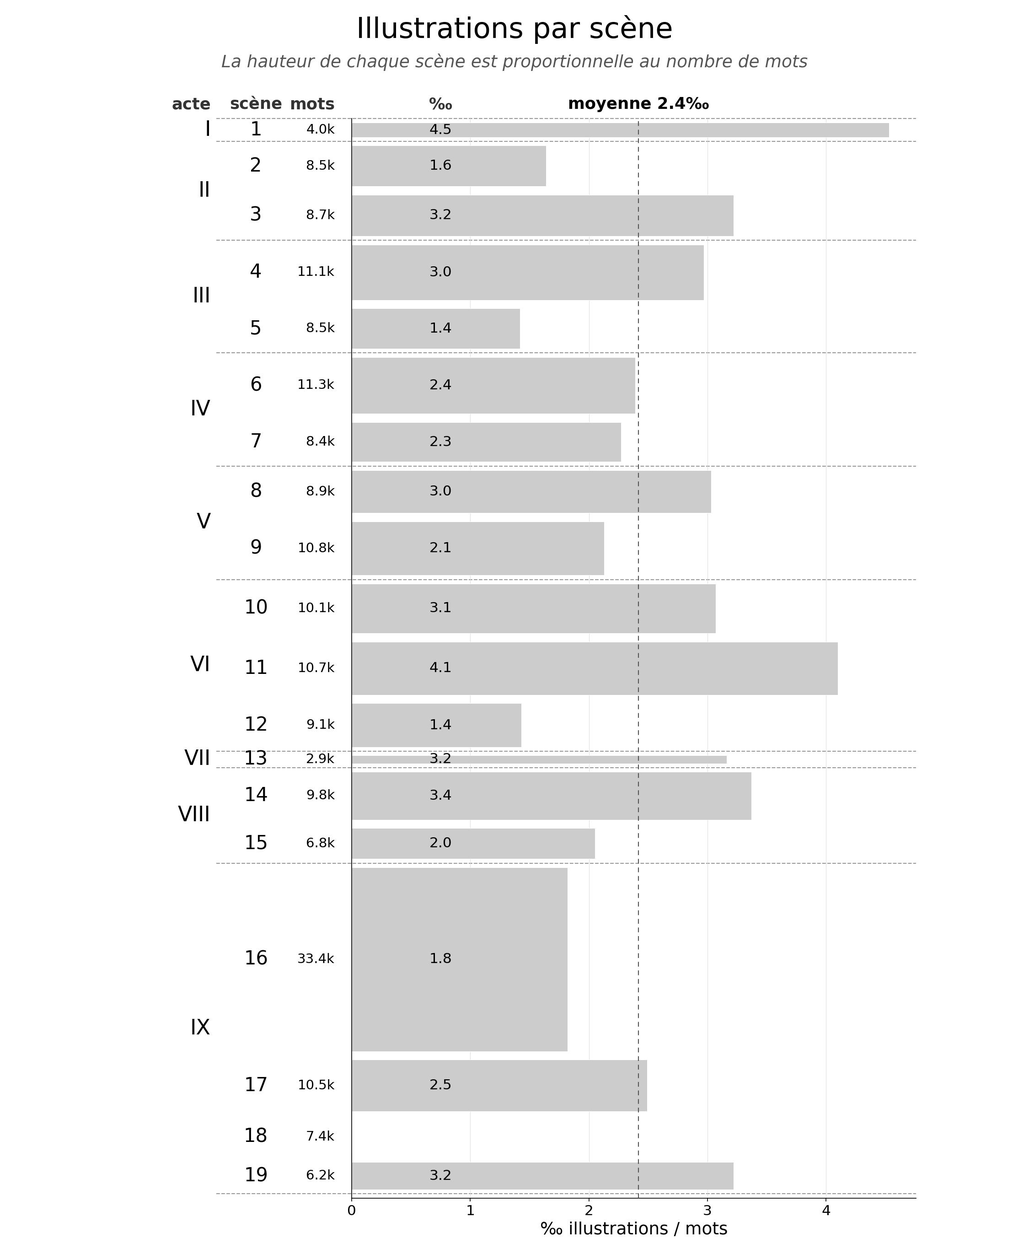
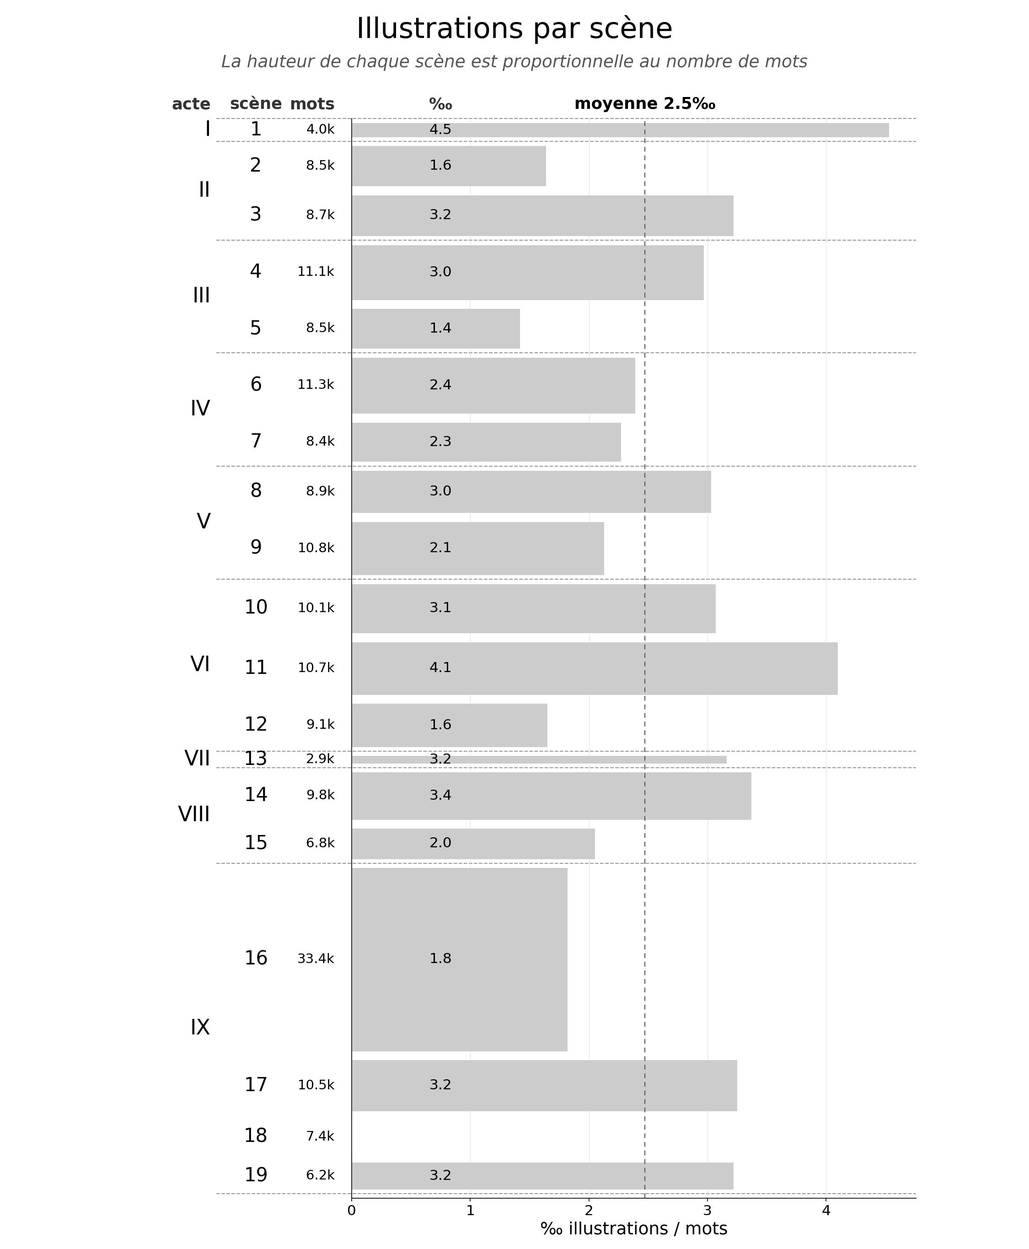
moyenne = 2.5‰ !

Changed region(s): [[0.6222, 0.8407, 0.7156, 0.9029], [0.56, 0.0623, 0.6844, 0.0934], [0.4978, 0.5604, 0.5289, 0.6227]]

diff --git a/actes/acte_09_3.tex b/actes/acte_09_3.tex
@@ -149,6 +149,7 @@ C’était compter sans la perspicacité de Shirani, limier diabolique capable d
 
 J’ai brandi ma plaque et hurlé à la cantonade : \shouting{Police !!! Circulez, y a rien à voir !!!}
 
+\iconographietex{figures/honni-soit-qui-mal-y-pense_fig.tex}
 \label{rat:49}%
 On le sait, les gens adorent les trucs scabreux. Ils vous diront que non, mais le fait est que s’il se passe quelque chose d’horrible quelque part, ils ont toutes les peines du monde à ne pas se précipiter pour jeter un œil. Ils sont comme ces charognards qui reniflent l’odeur de la viande froide et rappliquent ventre à terre pour prendre part au festin. Avant, ils se contentaient de regarder, maintenant ils filment, ce qui leur permet d’une part de revoir la scène encore et encore, d’autre part d’en faire profiter celles et ceux qui n’auraient pas eu la chance d’y assister. Avant, ils n’avaient que leur parole à opposer aux sceptiques et aux jaloux, maintenant ils ont les images pour preuve de leur bonne foi. Ces images, d’ailleurs, peuvent leur assurer une petite rente s’ils sont les seuls à les posséder. Les chaînes d’info en continu se feront une joie de les récupérer pour les diffuser en boucle auprès du grand public. Naturellement, plus c’est ignoble et horrifique, et plus le rapport est important. Tout est fait, en ce bas monde, pour flatter les plus bas instincts de la communauté. C’est ainsi que les réseaux sociaux, ramassis de crétins décérébrés et de sociopathes à la petite semaine, peuvent se développer à la vitesse d’une portée de cafards dans un placard rempli de victuailles. Les vautours parlent aux vautours, partagent l’info en temps réel, vingt-quatre heures sur vingt-quatre. Les hyènes ricanent, les requins de la finance entrent dans la danse et se remplissent la panse. Honni soit qui mal y pense, et longue vie en passant à la reine Victoria\nf{Reine Victoria (Victoria Alexandrina, 1819--1901), reine du Royaume-Uni de Grande-Bretagne et d’Irlande de 1837 à sa mort, et impératrice des Indes à partir de 1876. Son règne de 63~ans, le plus long de l’histoire britannique avant Élisabeth~II, correspond à l’apogée de l’Empire britannique et donna son nom à l’ère victorienne. \source{fr.wikipedia.org/wiki/Victoria\_(reine)}}, au prince de Galles\nf{Titre de l’héritier présomptif de la Couronne britannique, porté depuis 1958 par le prince William (né le 21~juin 1982), fils aîné du roi Charles~III. Le titre est décerné par le monarque régnant et n’est pas transmis automatiquement. \source{fr.wikipedia.org/wiki/Prince\_de\_Galles}}, à Ed Wood\nf{Edward Frederick Lindley Wood (1881--1959), 1\textsuperscript{er} comte d’Halifax, homme d’État britannique conservateur. Vice-roi des Indes (1925--1931), secrétaire d’État aux Affaires étrangères (1938--1940), partisan de la politique d’apaisement envers l’Allemagne nazie~; il rencontra Hitler en 1937. Candidat au poste de Premier ministre en 1940, supplanté par Winston Churchill. Son prénom et son patronyme coïncident avec ceux du réalisateur américain Ed Wood (1924--1978), évoqué ci-après. \source{fr.wikipedia.org/wiki/Edward\_Frederick\_Lindley\_Wood}} (le comte d’Halifax, pas l’auteur de \textit{La Fiancée du monstre}\nf{\textit{La Fiancée du monstre} (\textit{Bride of the Monster}, 1955), film d’horreur d’Edward D.~Wood Jr. (1924--1978), réalisateur américain dont l’œuvre, marquée par des budgets dérisoires, des scénarios improbables et une mise en scène hallucinée, lui a valu une réputation culte posthume. Bela Lugosi y incarne un savant fou cherchant à créer une race de mutants atomiques. \source{fr.wikipedia.org/wiki/La\_Fiancée\_du\_monstre}} et \textit{Necromania}\nf{\textit{Necromania} (1971), film érotique d’Ed Wood, l’un de ses derniers tournages. Un couple consulte une nécromancienne pour ranimer sa vie sexuelle. Redécouvert après des décennies d’oubli grâce à la vague de réhabilitation qui suivit les \textit{Golden Turkey Awards}. \source{fr.wikipedia.org/wiki/Necromania}}, qualifié par les frères Medved\nf{Harry Medved et Michael Medved, frères et critiques américains, auteurs de \textit{The Golden Turkey Awards} (1980), dans lequel ils décernent à Ed Wood le titre de «~pire réalisateur de tous les temps~» et à \textit{Plan 9 from Outer Space} celui de «~pire film de tous les temps~». Ces distinctions ont paradoxalement contribué à la réhabilitation culte d’Ed Wood. \source{fr.wikipedia.org/wiki/Michael\_Medved}} de «~plus mauvais réalisateur de tous les temps~», ce qui est plutôt un compliment venant de réacs dans leur genre), au gentilhomme huissier de (pas à) la verge noire\nf{Le gentilhomme huissier de la verge noire (\textit{Gentleman Usher of the Black Rod}), officier chargé du protocole à la Chambre des lords du Parlement britannique, dont l’attribut est un bâton d’ébène noir. Sa mission la plus connue~: frapper à la porte de la Chambre des communes, symboliquement fermée devant lui, pour convoquer les députés au discours du Trône — rappel de l’indépendance du Parlement vis-à-vis du souverain. \source{fr.wikipedia.org/wiki/Black\_Rod}}, au duc de Kent\nf{Titre de pairie britannique dont le détenteur actuel est le prince Edward, duc de Kent (né le 9~octobre 1935), fils du prince George, duc de Kent, et cousin germain d’Élisabeth~II. Il hérite du titre à six ans, à la mort de son père dans un accident d’avion en 1942. Grand maître de la Grande Loge unie d’Angleterre depuis 1967. \source{fr.wikipedia.org/wiki/Duc\_de\_Kent}} et à Naruhito\nf{Naruhito (né le 23~février 1960 à Tokyo), 126\textsuperscript{e} empereur du Japon depuis le 1\textsuperscript{er}~mai 2019, date de l’abdication de son père Akihito. Son règne inaugure l’ère Reiwa («~belle harmonie~»). Musicien amateur (alto) et alpiniste, il a étudié l’histoire des voies navigables intérieures à l’université d’Oxford. \source{fr.wikipedia.org/wiki/Naruhito}}, empereur du Japon, à sa gracieuse épouse Masako Owada\nf{Masako Owada (née le 9~décembre 1963 à Tokyo), impératrice du Japon depuis le 1\textsuperscript{er}~mai 2019. Ancienne diplomate de carrière, diplômée d’Harvard en économie (1985), parlant couramment l’anglais, le français et l’allemand. Son mariage avec le prince héritier Naruhito, le 9~juin 1993, mit fin à une brillante carrière au ministère des Affaires étrangères. \source{fr.wikipedia.org/wiki/Masako\_Owada}}, et bien sûr à leur fille Aiko\nf{Aiko (née le 1\textsuperscript{er}~décembre 2001 à Tokyo), princesse de Toshi, unique enfant de l’empereur Naruhito et de l’impératrice Masako. Diplômée en littérature japonaise de l’université Gakushuin (2024), elle travaille au sein de la Croix-Rouge japonaise. Exclue de la succession au trône par la loi de 1947 réservée aux descendants mâles. \source{fr.wikipedia.org/wiki/Aiko\_de\_Toshi}}, princesse de Toshi et Grand-cordon de l’ordre de la Couronne précieuse\nf{L’ordre de la Couronne précieuse (\cjk{宝冠章}, \textit{Hōkan-shō}), ordre honorifique japonais institué le 4~janvier 1888 par l’empereur Meiji. Traditionnellement réservé aux femmes, notamment aux membres de la famille impériale et aux épouses de dignitaires étrangers. Il comporte huit classes, le Grand-cordon étant la plus haute distinction. \source{fr.wikipedia.org/wiki/Ordre\_de\_la\_Couronne\_précieuse}}, au même titre que la reine d’Espagne\nf{Letizia Ortiz Rocasolano (née le 15~septembre 1972 à Oviedo), reine d’Espagne depuis le 19~juin 2014, épouse du roi Felipe~VI. Ancienne journaliste et présentatrice de télévision (TVE, CNN+), elle épouse le prince Felipe le 22~mai 2004. Première reine d’Espagne d’origine roturière. \source{fr.wikipedia.org/wiki/Letizia\_Ortiz}} et la princesse Basma de Jordanie\nf{La princesse Basma bint Talal (née le 12~juin 1951), fille du roi Talal de Jordanie et sœur du roi Hussein. Militante des droits humains et fondatrice de plusieurs organisations humanitaires, l’une des figures les plus progressistes de la famille royale hachémite. Arrêtée en 2019, elle est maintenue en détention pendant près de deux ans avant d’être libérée en 2021. \source{en.wikipedia.org/wiki/Princess\_Basma\_bint\_Talal}}, également (pour celles et ceux que ça intéressent, même si je me doute bien qu’ils ne sont pas légion) Grand-Croix de l’ordre royal de l’Étoile polaire de Suède\nf{L’ordre royal de l’Étoile polaire (\textit{Kungliga Nordstjärneorden}), ordre honorifique suédois fondé en 1748 par le roi Frédéric~I\textsuperscript{er}. Destiné aux ministres, ambassadeurs, savants et artistes. Son insigne est une croix blanche à huit pointes portant l’étoile polaire et la devise \textit{Nescit occasum} («~qui ne décline jamais~»). \source{fr.wikipedia.org/wiki/Ordre\_royal\_de\_l'Étoile\_polaire}}. Les gens que je viens de citer, citoyens haut-placés de l’univers, quasi-divinités vénérées par des peuples tout entiers (lesquels, il faut bien le reconnaître, ne barbotent pas toujours dans l’opulence et ont par conséquent d’autant plus de mérite à admirer des gens qui se goinfrent sur leur dos), bénéficient d’une protection toute particulière pour garantir leur intimité. Mais vous, qui n’avez pas de particule et encore moins de sang royal qui circule dans vos veines, sachez que quel que soit l’endroit où vous vous trouviez (j’allais dire cachiez, sans doute ce que vous auriez de mieux à faire), il y aura toujours quelqu’un pour vous filmer à votre insu. Non pas que votre vie présente un quelconque intérêt, mais le voyeurisme est aujourd’hui parvenu à un tel degré d’omniprésence qu’il est devenu impossible de s’y soustraire. Fini le bon temps où on pouvait agresser une petite vieille en toute sécurité, tabasser un étranger ou harceler sexuellement sa secrétaire sans que la moitié de la planète soit au courant dans les secondes qui suivent. Aujourd’hui, outre les caméras de surveillance qui fleurissent à tous les coins de rues, il faut compter sur les particuliers qui vivent en permanence l’œil rivé à l’écran de leur smartphone. L’être humain a toujours été sujet au voyeurisme, c’est vrai, mais ce qui était jadis honteux peut aujourd’hui s’afficher au grand jour en toute légalité. De la même façon, l’exhibitionnisme n’est plus réservé à une certaine catégorie de personnel, comme les politiciens, les artistes ou les gens qui se baladent à poil sous des imperméables même quand il ne pleut pas, de préférence à la sortie des écoles. Non, vous pouvez maintenant être une parfaite nullité totalement dépourvue de charisme et réussir à capter l’attention de millions de followers encore plus nuls que vous. On dit follower parce que suiveur ou suiveuse c’est pas terrible, sinon franchement péjoratif, au même titre que disciple, qui fait un peu gourou d’une secte de demeurés, ou encore abonné, qui fait référence à la téléphonie des années 70 et cadre assez mal avec l’idée de modernité véhiculée par les nouvelles technologies.
 

diff --git a/actes/acte_06_2.tex b/actes/acte_06_2.tex
@@ -201,7 +201,7 @@ Il a entrouvert la bouche dans l’intention manifeste de s’exprimer sur le su
 
 \end{dialogue}
 
-Il s’est rétracté dans le fond de sa coquille comme un es\-car\-got ébouillanté.
+\noindent Il s’est rétracté dans le fond de sa coquille comme un es\-car\-got ébouillanté.
 
 \begin{dialogue}
 
@@ -970,6 +970,9 @@ J’ai dit : Je comprends que vous soyez dépitée. Mais je vous en prie, revene
 %
 \textsc{Moi} : Je le sais, et vous présente une fois de plus, en mon nom et ceux de mes camarades ici présents, mes plus sincères condoléances. Mais j’aimerais maintenant, si vous le permettez, revenir à l’idée que je souhaitais soumettre à l’assistance. Comme vous n’êtes pas sans le savoir, les principaux suspects dans cette sombre affaire sont les sieurs Jégou, Monteil et Desmarais, tristes sires s’il en est, qui forment le noyau dur d’un groupuscule d’extrême-droite connu sous le nom de Disciples de la Colère. Je dirais plutôt Disciples de la Connerie. Quand ils ne sont pas en train de se saouler la gueule au Bouclier, un bar facho de la rue de Gobineau\nf{Arthur de Gobineau (1816--1882), diplomate et écrivain français, auteur de l'\textit{Essai sur l'inégalité des races humaines} (1853--1855), texte fondateur du racisme scientifique et de l'idéologie aryenne, abondamment récupéré par les mouvements d'extrême-droite.\source{fr.wikipedia.org/wiki/Arthur\_de\_Gobineau}}, ils se retrouvent rue Jordan Peshkov, chez Jégou qui fait office de cerveau de la bande, ou plutôt chez sa grand-mère puisque c’est là qu’il habite, dans le sous-sol transformé en bunker nazi, pour préparer la troisième guerre mondiale et le retour triomphal du führer qui attendait patiemment son heure dans un caisson de cryogénisation. En attendant ce jour de gloire, ils bricolent des complots racistes, antisémites et homophobes pour déstabiliser la société et saper les fondements de la démocratie. La vieille, sourde comme un pot et toute acquise aux thèses négationnistes de son petit-fils adoré, qu’elle a élevé depuis sa plus tendre enfance, ses parents s’étant barrés en vitesse dès qu’ils ont compris qu’ils avaient engendré un monstre, leur mitonne des petits plats pour qu’ils ne crèvent pas de faim pendant les longues soirées d’hiver passées à refaire le monde, ou plutôt imaginer le plus sûr moyen de le réduire en cendres. Pour en revenir à l’affaire qui nous occupe, Cerqueira, qui était présent au moment des faits, affirme avoir tout tenté pour empêcher Desmarais de commettre le pire. Mais autant essayer de retirer un os de la gueule d’un dogue allemand ! Plombier de métier, cette sous-merde est aussi pompier volontaire. Pas pour sauver des gens, je vous rassure tout de suite, mais pour assouvir sa fascination pour le feu. Voir cramer des choses le met en joie, lui déclenche des érections d’anthologie, lui procure des orgasmes apocalyptiques, choses d’autant plus rares, exceptionnelles et profitables qu’il souffre d’impuissance chronique. C’est au contact des flammes qu’il s’épanouit, et sa grande passion consiste à faire semblant d’éteindre des incendies qu’il a lui-même allumés. Si on en croit Cerqueira, et je suis assez enclin à le faire, c’est Desmarais qui a carbonisé Alvarez au lance-flammes. Ils ont tous, de près ou de loin, participé à cette abomination, mais c’est à Desmarais que revient la palme du pire taré de service. Je vais donc m’en occuper personnellement, à mon rythme, et corriger le tir de dame Nature qui s’est une fois de plus fourvoyée sur la longue route semée d’embûches de l’évolution. Je propose que Sam s’occupe de Jégou et Greg et Nathan de Monteil.
 
+\illusloflabel{}%
+\iconographieinlineblock[]{\bwimage[width=\textwidth]{acte_06/scene_12/_0000_martin-cougar.jpg}}{Martin Archery MT-6 Cougar }
+
 \textsc{Nathan} : Je vais me le faire au Cougar MT-6, avec des pointes de flèches explosives.
 
 \textsc{Greg} : Je ramasserai les morceaux.
@@ -990,9 +993,6 @@ J’ai dit : Je comprends que vous soyez dépitée. Mais je vous en prie, revene
 
 \textsc{Moi} : C’est comme ça que je vois les choses. En attendant, s’il n’est pas rentré à la maison à la première heure, Bérénice va me tomber dessus et je vais avoir toutes les peines du monde à lui expliquer ce qui s’est réellement passé.
 
-\illusloflabel{}%
-\iconographiewrapfig{l}{0.15\textwidth}{\bwimage[width=\linewidth]{acte_03/scene_4/_0601_martin-cougar.jpg}}{Martin Archery MT-6 Cougar }%
-%
 \textsc{Greg} : Tu sais ce qui s’est réellement passé ?
 
 \textsc{Moi} : Pas vraiment, non.
@@ -1001,10 +1001,12 @@ J’ai dit : Je comprends que vous soyez dépitée. Mais je vous en prie, revene
 
 \textsc{Moi} : Où ça ?
 
-
 \textsc{Nathan} : La fille a parlé d’un hôtel tout près d’ici.
 
-En tant qu’homme moderne parfaitement connecté au monde réel et toujours au fait des dernières avancées en matière de technologies de pointe, Greg a aussitôt sorti son smartphone, appareil sur lequel il disposait de toutes les applis nécessaires pour quadriller le périmètre au dixième de millimètre près : Attends, je regarde s’il y en a un dans le coin.
+\illusloflabel{}%
+\iconographiewrapfig{r}{0.17\textwidth}{\bwimage[width=\linewidth]{acte_06/scene_12/_0000_gurkha-ghost-spook.jpg}}{Gurkha Ghost Spook}%
+%
+En tant qu’homme moderne parfaitement connecté au monde réel et toujours au fait des dernières avancées en matière de technologies de pointe, \textsc{Greg} a aussitôt sorti son smartphone, appareil sur lequel il disposait de toutes les applis nécessaires pour quadriller le périmètre au dixième de millimètre près : Attends, je regarde s’il y en a un dans le coin.
 
 \textsc{Moi}, estimant que le moment d’allumer un Gurkha Ghost Spook était amplement arrivé : Alors ?
 
@@ -1045,3 +1047,7 @@ En tant qu’homme moderne parfaitement connecté au monde réel et toujours au 
 \textsc{Moi}, après un temps d’hésitation : Okay, on y va !
 
 \end{dialogue}
+
+\illusloflabel{Hamdullah!}%
+\iconographieinlineblock[b]{\bwimage[width=0.55\textwidth]{acte_06/scene_12/_0190_hamdullah.jpg}}{}%
+

diff --git a/figures/honni-soit-qui-mal-y-pense_fig.tex b/figures/honni-soit-qui-mal-y-pense_fig.tex
@@ -1,0 +1,72 @@
+% honni-soit-qui-mal-y-pense_fig.tex — 3+3+2
+% AR: Victoria 0.707 · William 0.671 · Kent 1.000
+%     Naruhito 0.700 · Aiko 0.719 · Masako 0.696 — Σ=2.115
+%     Letizia 0.743 · Basma 0.758 — Σ=1.501
+% Rows 2+3 : widths ∝ AR (gap total ≈ 0.035\textwidth) → equal height per row
+\vspace*{\fill}
+
+% --- row 1 : Victoria · Prince de Galles · Duc de Kent (hauteurs libres) ---
+\noindent
+\begin{minipage}[t]{0.31\textwidth}
+  \centering
+  \illusloflabel{Reine Victoria}%
+  \bwimage[width=\linewidth]{acte_09/scene_17/honni/_0010_victoria.jpg}\\[-0.4em]
+  {\figcaptionname\itshape Reine Victoria \textup{1819--1901}}
+\end{minipage}
+\hfill
+\begin{minipage}[t]{0.31\textwidth}
+  \centering
+  \illusloflabel{Prince de Galles}%
+  \bwimage[width=\linewidth]{acte_09/scene_17/honni/_0020_prince-de-galles.jpg}\\[-0.4em]
+  {\figcaptionname\itshape Prince de Galles \textup{1982--}}
+\end{minipage}
+\hfill
+\begin{minipage}[t]{0.31\textwidth}
+  \centering
+  \illusloflabel{Duc de Kent}%
+  \bwimage[width=\linewidth]{acte_09/scene_17/honni/_0070_duc-de-kent.jpg}\\[-0.4em]
+  {\figcaptionname\itshape Duc de Kent \textup{1935--}}
+\end{minipage}
+
+\vfill
+
+\noindent
+\begin{minipage}[t]{0.319\textwidth}
+  \centering
+  \illusloflabel{Naruhito}%
+  \bwimage[width=\linewidth]{acte_09/scene_17/honni/_0080_naruhito.jpg}\\[-0.4em]
+  {\figcaptionname\itshape Naruhito \textup{1960--}}
+\end{minipage}
+\hfill
+\begin{minipage}[t]{0.328\textwidth}
+  \centering
+  \illusloflabel{Aiko, princesse de Toshi}%
+  \bwimage[width=\linewidth]{acte_09/scene_17/honni/_0100_aiko.jpg}\\[-0.4em]
+  {\figcaptionname\itshape Aiko \textup{2001--}}
+\end{minipage}
+\hfill
+\begin{minipage}[t]{0.318\textwidth}
+  \centering
+  \illusloflabel{Masako Owada}%
+  \bwimage[width=\linewidth]{acte_09/scene_17/honni/_0090_masako-owada.jpg}\\[-0.4em]
+  {\figcaptionname\itshape Masako Owada \textup{1963--}}
+\end{minipage}
+
+\vfill
+
+\noindent
+\begin{minipage}[t]{0.34\textwidth}
+  \centering
+  \illusloflabel{Reine d'Espagne}%
+  \bwimage[width=\linewidth]{acte_09/scene_17/honni/_0110_letizia.jpg}\\[-0.4em]
+  {\figcaptionname\itshape Letizia Ortiz \textup{1972--}}
+\end{minipage}
+\hfill
+\begin{minipage}[t]{0.35\textwidth}
+  \centering
+  \illusloflabel{Princesse Basma de Jordanie}%
+  \bwimage[width=\linewidth]{acte_09/scene_17/honni/_0120_princesse-basma.jpg}\\[-0.4em]
+  {\figcaptionname\itshape Princesse Basma \textup{1951--}}
+\end{minipage}
+
+\vspace*{\fill}

diff --git a/stats.py b/stats.py
@@ -15,7 +15,7 @@ ACTES_DIR = ROOT / "actes"
 BUILD     = ROOT / "build"
 OUT_FILE  = ROOT / "stats.md"
 
-ILLUS_TARGET = 414  # target: 1 illustration every N words (overridable via --target)
+ILLUS_TARGET = 405  # target: 1 illustration every N words (overridable via --target)
 
 TOC_MAIN   = BUILD / "tete_de_veau_ravigote.toc"
 TOC_TOTALE = BUILD / "tete_de_veau_ravigote_LA_TOTALE.toc"

diff --git a/extrait.tex b/extrait.tex
@@ -17,8 +17,12 @@
 \pagestyle{gallimard}
 
 \acte{
-  \input{actes/acte_06_1.tex}
-  \input{actes/acte_06_2.tex}
+  \input{actes/acte_09_1.tex}
+  \input{actes/acte_09_2.tex}
+  \input{actes/acte_09_2b.tex}
+  \input{actes/acte_09_3.tex}
+  \input{actes/acte_09_3b.tex}
+  \input{actes/acte_09_4.tex}
 }
 % ← extrait content
 

diff --git a/actes/acte_09_3b.tex b/actes/acte_09_3b.tex
@@ -292,7 +292,7 @@ Je parlais de Noé Desmarais, qui n’avait pas bougé un cil depuis le début d
 {\centering FIN\par}
 \vspace{\onelineskip}
 
-Provisoire, bien entendu.
+\noindent Provisoire, bien entendu.
 
 \scene
 

diff --git a/figures/honni-soit-qui-mal-y-pense.tex b/figures/honni-soit-qui-mal-y-pense.tex
@@ -1,0 +1,1 @@
+\def\figname{honni-soit-qui-mal-y-pense}\input{figure.tex}

diff --git a/stats.md b/stats.md
@@ -16,17 +16,17 @@ Mots = texte original uniquement (hors contenu des notes `\nf{}`).
 | V.9 | Ce soir-là, alors même que les combats… | 287 |  44 |  10 811 |   5.78% |  31.33% |    56 |  0.52% |            23 |  0.21% |
 | VI.10 | J’ai tout juste eu le temps de… | 331 |  42 |  10 085 |   5.39% |  35.33% |    92 |  0.91% |            31 |  0.31% |
 | VI.11 | On en était là de nos aventures… | 373 |  46 |  10 729 |   5.74% |  19.37% |    86 |  0.80% |            44 |  0.41% |
-| VI.12 | La voiture s’est approchée, au ralenti, et… | 419 |  40 |   9 060 |   4.85% |  91.32% |    24 |  0.26% |            13 |  0.14% |
+| VI.12 | La voiture s’est approchée, au ralenti, et… | 419 |  40 |   9 072 |   4.85% |  91.28% |    24 |  0.26% |            15 |  0.17% |
 | VII.13 | Et on y est allé, figurez-vous, car… | 459 |  16 |   2 852 |   1.53% |  56.21% |    14 |  0.49% |             9 |  0.32% |
 | VIII.14 | Trois quarts d’heure plus tard, après avoir… | 475 |  36 |   9 794 |   5.24% |   0.00% |    56 |  0.57% |            33 |  0.34% |
 | VIII.15 | Les chaussures à semelle de cuir sont… | 511 |  28 |   6 822 |   3.65% |  52.49% |    55 |  0.81% |            14 |  0.21% |
 | IX.16 | Cette nuit-là, j’ai fait des rêves étranges… | 539 | 124 |  33 443 |  17.89% |  20.84% |   248 |  0.74% |            61 |  0.18% |
-| IX.17 | Une porte d’ascenseur venait de s’ouvrir, non… | 663 |  36 |  10 456 |   5.59% |   3.04% |    68 |  0.65% |            26 |  0.25% |
+| IX.17 | Une porte d’ascenseur venait de s’ouvrir, non… | 663 |  36 |  10 456 |   5.59% |   3.04% |    68 |  0.65% |            34 |  0.33% |
 | IX.18 | Comme beaucoup d’urgentistes souffrant de handicap visuel… | 699 |  26 |   7 373 |   3.94% |  48.11% |    10 |  0.14% |             — |      — |
 | IX.19 | Il est toujours extrêmement douloureux de mettre… | 725 | 234 |   6 214 |   3.32% |  25.43% |    23 |  0.37% |            20 |  0.32% |
-| **Total** | |  |  | **186 974** | **100%** | **29.40%** | **1081** | **0.58%** | **452** | **0.24%** |
+| **Total** | |  |  | **186 986** | **100%** | **29.40%** | **1081** | **0.58%** | **462** | **0.25%** |
 
-![Illustrations par scène (horizontal)](stats_illus_chart_h.jpg?v=2d3db508)
+![Illustrations par scène (horizontal)](stats_illus_chart_h.jpg?v=0ff5f8e9)
 
 # Statistiques par acte (avant découpage)
 
@@ -40,15 +40,15 @@ Mots = texte original uniquement (hors contenu des notes `\nf{}`).
 | III  |  75 |  68 |  19 563 |  10.46% |   110 |  0.56% |            45 |  0.23% |
 | IV   | 143 |  66 |  19 681 |  10.53% |    88 |  0.45% |            46 |  0.23% |
 | V    | 209 |  66 |  19 715 |  10.54% |   100 |  0.51% |            50 |  0.25% |
-| VI   | 275 | 106 |  29 874 |  15.98% |   202 |  0.68% |            88 |  0.29% |
+| VI   | 275 | 106 |  29 886 |  15.98% |   202 |  0.68% |            90 |  0.30% |
 | VII  | 381 |  12 |   2 852 |   1.53% |    14 |  0.49% |             9 |  0.32% |
 | VIII | 393 |  54 |  16 616 |   8.89% |   111 |  0.67% |            47 |  0.28% |
-| IX   | 447 | 184 |  57 486 |  30.75% |   349 |  0.61% |           107 |  0.19% |
-| **Total** |  |  | **186 974** | **100%** | **1081** | **0.58%** | **452** | **0.24%** |
+| IX   | 447 | 184 |  57 486 |  30.74% |   349 |  0.61% |           115 |  0.20% |
+| **Total** |  |  | **186 986** | **100%** | **1081** | **0.58%** | **462** | **0.25%** |
 
 ## Estimation illustrations restantes
 
-Cible : **1 illustration tous les 414 mots** (186 974 mots → **452** illustrations).  
-Actuellement **452** — il en manque **0** — **100.0 %** réalisé.
+Cible : **1 illustration tous les 405 mots** (186 986 mots → **462** illustrations).  
+Actuellement **462** — il en manque **0** — **100.0 %** réalisé.
 
-Sous-illustrées (< 0.7× la cible) : IX.18 (0/17.8)
+Sous-illustrées (< 0.7× la cible) : IX.18 (0/18.2)
